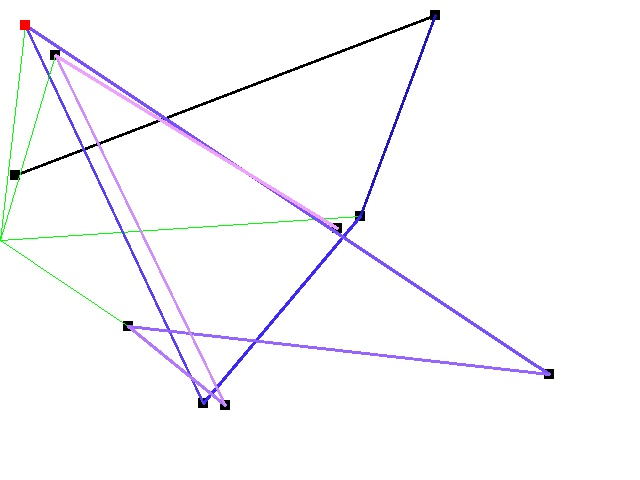
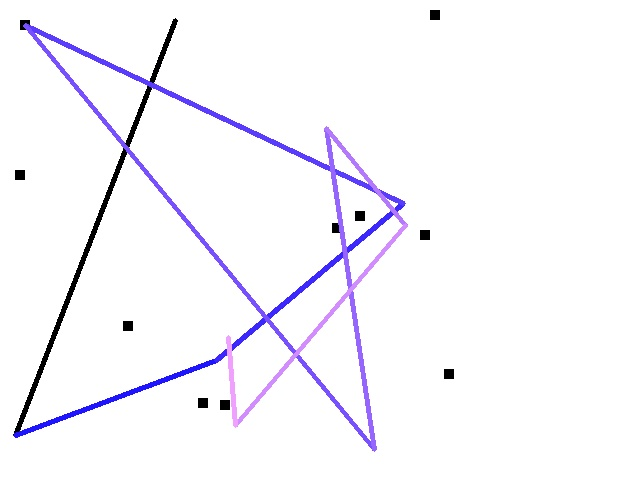
Signed-off-by: Sædvanlige ændringer :D <Emil@10.16.106.85>

diff --git a/ImageTest/src/Coordinates/FictiveCoordinates.java b/ImageTest/src/Coordinates/FictiveCoordinates.java
@@ -17,7 +17,7 @@ public class FictiveCoordinates {
 		//maks 630 (x) - de lige + 0
 		//maks 470 (y) - de ulige
 
-		Coordi[0] = 10;	//x
+		Coordi[0] = 15;	//x
 		Coordi[1] = 170;	//y
 		Coordi[2] = 430;   	//x
 		Coordi[3] = 10;	//y
@@ -27,14 +27,14 @@ public class FictiveCoordinates {
 		Coordi[7] = 398;	//y
 		Coordi[8] = 20;	//x
 		Coordi[9] = 20;	//y
-		Coordi[10] = 544;	//x
+		Coordi[10] = 444;	//x
 		Coordi[11] = 369;	//y
 		Coordi[12] = 123;	//x
 		Coordi[13] = 321;	//y
 		Coordi[14] = 220;	//x
 		Coordi[15] = 400;	//y
-		Coordi[16] = 50;	//x
-		Coordi[17] = 50;	//y
+		Coordi[16] = 420;	//x
+		Coordi[17] = 230;	//y
 		Coordi[18] = 332;	//x
 		Coordi[19] = 223;	//y
 		return Coordi;
